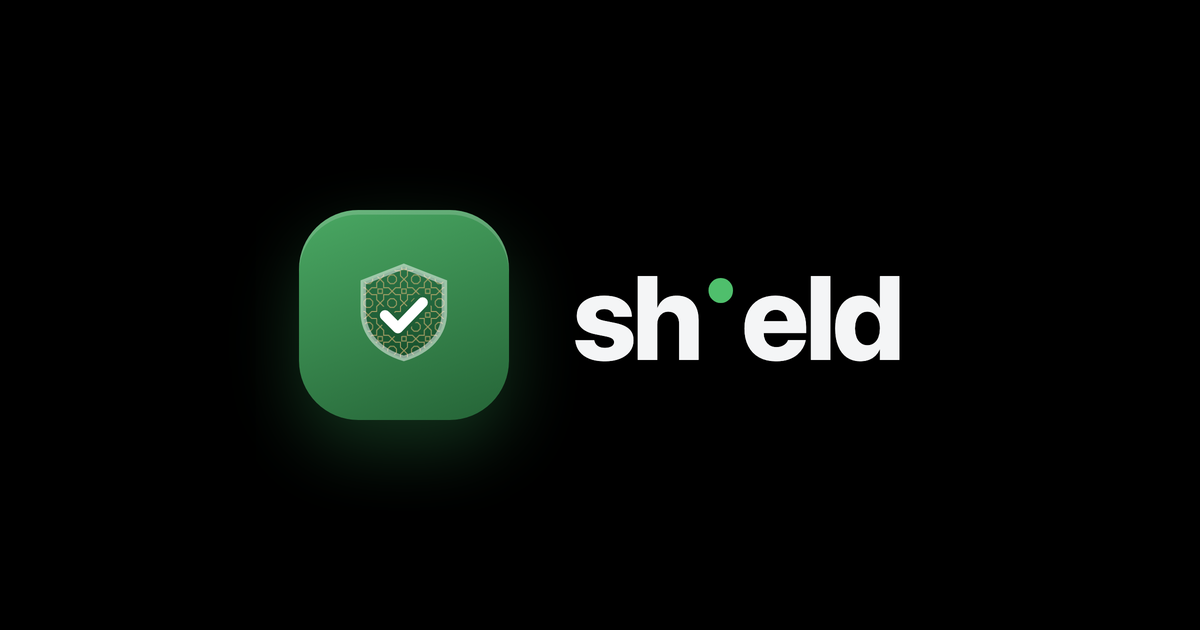
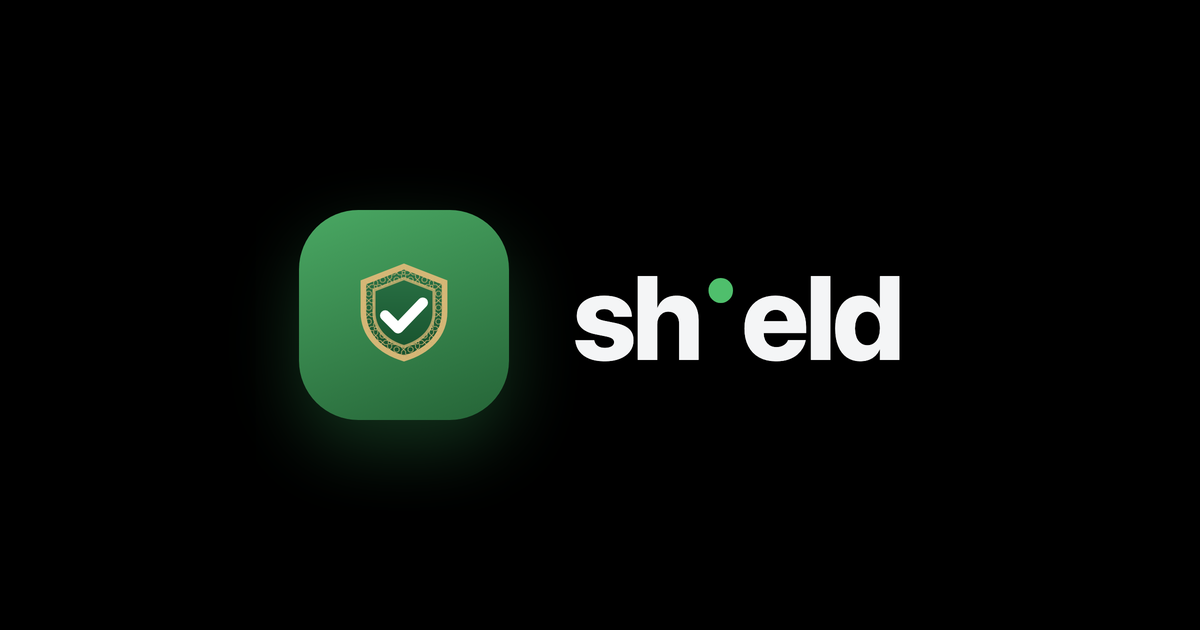
Switch brand mark to the inlay girih treatment
The girih now runs in a band that follows the shield's own outline, with the
centre left clear so the checkmark sits on plain green instead of competing
with a field of pattern behind it. Double gold rule -- heavier on the outer
edge, lighter on the inner -- reads as inlay rather than as texture that
wandered into the shape.

The shield rim moves from white to gold, which is what makes the gold read
as deliberate: previously it was trapped inside the silhouette and the rim
belonged to a different palette.

The mark now paints its own tile, so .logo .mark drops the CSS gradient and
keeps only the glow. The favicon takes the same gold rim but no band: below
~32px the pattern collapses into noise, so it carries the silhouette alone.

Changed region(s): [[0.2775, 0.4222, 0.4008, 0.573], [0.2775, 0.3317, 0.4008, 0.3619]]

diff --git a/index.html b/index.html
@@ -73,17 +73,17 @@
         width: 46px;
         height: 46px;
         border-radius: 13px;
-        background: linear-gradient(160deg, #4aa863, #256437);
+        /* the SVG paints the tile and its gradient itself now */
         display: flex;
         align-items: center;
         justify-content: center;
-        box-shadow: 0 6px 16px rgba(43, 112, 64, 0.45),
-          inset 0 1px 0 rgba(255, 255, 255, 0.18);
+        box-shadow: 0 6px 16px rgba(43, 112, 64, 0.45);
       }
 
       .logo .mark svg {
-        width: 26px;
-        height: 26px;
+        width: 100%;
+        height: 100%;
+        display: block;
       }
 
       .logo .wordmark {
@@ -426,45 +426,43 @@
       <header>
         <div class="logo">
           <span class="mark" aria-hidden="true">
-            <svg viewBox="0 0 24 24" fill="none" xmlns="http://www.w3.org/2000/svg">
-              <defs>
-                <linearGradient id="gs-m" x1="0" y1="0" x2="0" y2="1">
-                  <stop offset="0" stop-color="#2a7346"/>
-                  <stop offset="1" stop-color="#17502c"/>
-                </linearGradient>
-                <pattern id="gp-m" patternUnits="userSpaceOnUse"
-                    x="0.0000" y="0.0000" width="4.8101" height="4.8101">
-                  <g fill="none" stroke="#dcb978" stroke-width="0.1907" stroke-linejoin="miter">
-                    <polygon points="2.41,0.00 1.70,0.70 1.70,1.70 0.70,1.70 0.00,2.41 -0.70,1.70 -1.70,1.70 -1.70,0.70 -2.41,0.00 -1.70,-0.70 -1.70,-1.70 -0.70,-1.70 -0.00,-2.41 0.70,-1.70 1.70,-1.70 1.70,-0.70"/>
-                    <polygon points="0.88,0.37 0.37,0.88 -0.37,0.88 -0.88,0.37 -0.88,-0.37 -0.37,-0.88 0.37,-0.88 0.88,-0.37"/>
-                    <polygon points="7.22,0.00 6.51,0.70 6.51,1.70 5.51,1.70 4.81,2.41 4.11,1.70 3.11,1.70 3.11,0.70 2.41,0.00 3.11,-0.70 3.11,-1.70 4.11,-1.70 4.81,-2.41 5.51,-1.70 6.51,-1.70 6.51,-0.70"/>
-                    <polygon points="5.69,0.37 5.18,0.88 4.44,0.88 3.93,0.37 3.93,-0.37 4.44,-0.88 5.18,-0.88 5.69,-0.37"/>
-                    <polygon points="2.41,4.81 1.70,5.51 1.70,6.51 0.70,6.51 0.00,7.22 -0.70,6.51 -1.70,6.51 -1.70,5.51 -2.41,4.81 -1.70,4.11 -1.70,3.11 -0.70,3.11 -0.00,2.41 0.70,3.11 1.70,3.11 1.70,4.11"/>
-                    <polygon points="0.88,5.18 0.37,5.69 -0.37,5.69 -0.88,5.18 -0.88,4.44 -0.37,3.93 0.37,3.93 0.88,4.44"/>
-                    <polygon points="7.22,4.81 6.51,5.51 6.51,6.51 5.51,6.51 4.81,7.22 4.11,6.51 3.11,6.51 3.11,5.51 2.41,4.81 3.11,4.11 3.11,3.11 4.11,3.11 4.81,2.41 5.51,3.11 6.51,3.11 6.51,4.11"/>
-                    <polygon points="5.69,5.18 5.18,5.69 4.44,5.69 3.93,5.18 3.93,4.44 4.44,3.93 5.18,3.93 5.69,4.44"/>
-                    <polygon points="2.86,2.86 1.95,2.86 1.95,1.95 2.86,1.95"/>
-                    <line x1="2.86" y1="2.86" x2="2.80" y2="2.80"/>
-                    <line x1="1.95" y1="2.86" x2="2.01" y2="2.80"/>
-                    <line x1="1.95" y1="1.95" x2="2.01" y2="2.01"/>
-                    <line x1="2.86" y1="1.95" x2="2.80" y2="2.01"/>
+            <svg xmlns="http://www.w3.org/2000/svg" viewBox="0 0 512 512" role="img" aria-label="sh-eld logo"><defs><linearGradient id="bm-tg" x1="0.281" y1="-0.103" x2="0.719" y2="1.103">
+                <stop offset="0" stop-color="#4aa863"/><stop offset="1" stop-color="#256437"/>
+              </linearGradient>
+              <linearGradient id="bm-sg" x1="0" y1="0" x2="0" y2="1">
+                <stop offset="0" stop-color="#2a7346"/><stop offset="1" stop-color="#17502c"/>
+              </linearGradient><pattern id="bm-pat" patternUnits="userSpaceOnUse"
+                    x="0.0000" y="0.0000" width="34.0000" height="34.0000">
+                  <g fill="none" stroke="#dcb978" stroke-width="1.7000" stroke-linejoin="miter">
+                    <polygon points="17.00,0.00 12.02,4.98 12.02,12.02 4.98,12.02 0.00,17.00 -4.98,12.02 -12.02,12.02 -12.02,4.98 -17.00,0.00 -12.02,-4.98 -12.02,-12.02 -4.98,-12.02 -0.00,-17.00 4.98,-12.02 12.02,-12.02 12.02,-4.98"/>
+                    <polygon points="6.25,2.59 2.59,6.25 -2.59,6.25 -6.25,2.59 -6.25,-2.59 -2.59,-6.25 2.59,-6.25 6.25,-2.59"/>
+                    <polygon points="51.00,0.00 46.02,4.98 46.02,12.02 38.98,12.02 34.00,17.00 29.02,12.02 21.98,12.02 21.98,4.98 17.00,0.00 21.98,-4.98 21.98,-12.02 29.02,-12.02 34.00,-17.00 38.98,-12.02 46.02,-12.02 46.02,-4.98"/>
+                    <polygon points="40.25,2.59 36.59,6.25 31.41,6.25 27.75,2.59 27.75,-2.59 31.41,-6.25 36.59,-6.25 40.25,-2.59"/>
+                    <polygon points="17.00,34.00 12.02,38.98 12.02,46.02 4.98,46.02 0.00,51.00 -4.98,46.02 -12.02,46.02 -12.02,38.98 -17.00,34.00 -12.02,29.02 -12.02,21.98 -4.98,21.98 -0.00,17.00 4.98,21.98 12.02,21.98 12.02,29.02"/>
+                    <polygon points="6.25,36.59 2.59,40.25 -2.59,40.25 -6.25,36.59 -6.25,31.41 -2.59,27.75 2.59,27.75 6.25,31.41"/>
+                    <polygon points="51.00,34.00 46.02,38.98 46.02,46.02 38.98,46.02 34.00,51.00 29.02,46.02 21.98,46.02 21.98,38.98 17.00,34.00 21.98,29.02 21.98,21.98 29.02,21.98 34.00,17.00 38.98,21.98 46.02,21.98 46.02,29.02"/>
+                    <polygon points="40.25,36.59 36.59,40.25 31.41,40.25 27.75,36.59 27.75,31.41 31.41,27.75 36.59,27.75 40.25,31.41"/>
+                    <polygon points="20.25,20.25 13.75,20.25 13.75,13.75 20.25,13.75"/>
+                    <line x1="20.25" y1="20.25" x2="19.82" y2="19.82"/>
+                    <line x1="13.75" y1="20.25" x2="14.18" y2="19.82"/>
+                    <line x1="13.75" y1="13.75" x2="14.18" y2="14.18"/>
+                    <line x1="20.25" y1="13.75" x2="19.82" y2="14.18"/>
                   </g>
                 </pattern>
-                <clipPath id="gc-m"><path d="M12 2.2 3.8 5.4v6c0 4.6 3.2 7.9 8.2 9.4 5-1.5 8.2-4.8 8.2-9.4v-6L12 2.2Z"/></clipPath>
-                <mask id="gm-m">
-                  <rect x="0" y="0" width="24" height="24" fill="#fff"/>
-                  <path d="M8.2 12.1 10.8 14.7 15.8 9.5" fill="none" stroke="#000" stroke-width="3.5"
-                    stroke-linecap="round" stroke-linejoin="round"/>
-                </mask>
-              </defs>
-              <path d="M12 2.2 3.8 5.4v6c0 4.6 3.2 7.9 8.2 9.4 5-1.5 8.2-4.8 8.2-9.4v-6L12 2.2Z" fill="url(#gs-m)"/>
-              <g clip-path="url(#gc-m)" mask="url(#gm-m)" opacity="0.7">
-                <rect x="0" y="0" width="24" height="24" fill="url(#gp-m)"/>
-              </g>
-              <path d="M12 2.2 3.8 5.4v6c0 4.6 3.2 7.9 8.2 9.4 5-1.5 8.2-4.8 8.2-9.4v-6L12 2.2Z" stroke="#ffffff" stroke-opacity="0.5" stroke-width="1.1"/>
-              <path d="M8.2 12.1 10.8 14.7 15.8 9.5" stroke="#ffffff" stroke-width="2.1"
-                stroke-linecap="round" stroke-linejoin="round"/>
-            </svg>
+              <mask id="bm-band">
+                <g transform="translate(111.30 111.30) scale(12.0580)">
+                  <path d="M12 2.2 3.8 5.4v6c0 4.6 3.2 7.9 8.2 9.4 5-1.5 8.2-4.8 8.2-9.4v-6L12 2.2Z" fill="#fff"/>
+                  <path d="M12 2.2 3.8 5.4v6c0 4.6 3.2 7.9 8.2 9.4 5-1.5 8.2-4.8 8.2-9.4v-6L12 2.2Z" transform="translate(12 11.5) scale(0.74) translate(-12 -11.5)" fill="#000"/>
+                </g>
+              </mask></defs><rect width="512" height="512" rx="144.7" fill="url(#bm-tg)"/>
+              <g transform="translate(111.30 111.30) scale(12.0580)"><path d="M12 2.2 3.8 5.4v6c0 4.6 3.2 7.9 8.2 9.4 5-1.5 8.2-4.8 8.2-9.4v-6L12 2.2Z" fill="url(#bm-sg)"/></g>
+              <g mask="url(#bm-band)" opacity="0.9"><rect width="512" height="512" fill="url(#bm-pat)"/></g>
+              <g transform="translate(111.30 111.30) scale(12.0580)" fill="none">
+                <path d="M12 2.2 3.8 5.4v6c0 4.6 3.2 7.9 8.2 9.4 5-1.5 8.2-4.8 8.2-9.4v-6L12 2.2Z" stroke="#dcb978" stroke-opacity="0.95" stroke-width="1.15"/>
+                <path d="M12 2.2 3.8 5.4v6c0 4.6 3.2 7.9 8.2 9.4 5-1.5 8.2-4.8 8.2-9.4v-6L12 2.2Z" transform="translate(12 11.5) scale(0.74) translate(-12 -11.5)" stroke="#dcb978"
+                  stroke-opacity="0.75" stroke-width="0.85"/>
+                <path d="M8.2 12.1 10.8 14.7 15.8 9.5" stroke="#ffffff" stroke-width="2.1" fill="none" stroke-linecap="round" stroke-linejoin="round"/>
+              </g></svg>
           </span>
           <span class="wordmark">sh<span class="dot"></span>eld</span>
         </div>

diff --git a/build_brand_assets.py b/build_brand_assets.py
@@ -1,54 +1,56 @@
-"""Emit the shipping brand assets from the chosen girih variant (B).
+"""Emit the shipping brand assets from the chosen mark ("Inlay").
 
-Single source of geometry: build_logo_variants.py. Everything here is derived
-from it so the mark in the page, the favicon and the OG image cannot drift.
+Single source of geometry: build_logo_variants.py. The page mark, favicon and
+OG image are all generated here so they cannot drift apart.
+
+Inlay = the girih runs in a band following the shield's own outline, centre
+left clear so the checkmark sits on plain green. Double gold rule: heavier on
+the outer edge, lighter on the inner.
 """
 import build_logo_variants as G
 
-# --- chosen variant --------------------------------------------------------
-VAR = dict(s=58.0, sw=2.3, opacity=0.70, inner_octagon=True)
-
-# The mark is authored in the shield's own 24-unit box (matching the existing
-# inline <svg viewBox="0 0 24 24"> in index.html), so the pattern cell and
-# stroke must be converted out of 512-tile units.
-U = VAR["s"] / G.SC          # cell size in shield units
-SWU = VAR["sw"] / G.SC       # stroke weight in shield units
-CY = 11.5                    # shield path spans y 2.2..20.8 -> centre 11.5
+# --- chosen mark -----------------------------------------------------------
+CELL, STROKE, BAND_OP = 34.0, 1.7, 0.9
+INSET = 0.74          # inner edge of the band, as a scale of the shield
+XF = f"translate({G.OFF:.2f} {G.OFF:.2f}) scale({G.SC:.4f})"
 
 
-def mark24(uid, with_pattern=True):
-    """Shield + girih + check in a 0 0 24 24 box. No tile: the CSS draws that."""
-    pat = G.pattern(f"gp-{uid}", U, SWU, VAR["inner_octagon"], cx=12.0, cy=CY)
-    pattern_layer = f'''
-  <g clip-path="url(#gc-{uid})" mask="url(#gm-{uid})" opacity="{VAR["opacity"]}">
-    <rect x="0" y="0" width="24" height="24" fill="url(#gp-{uid})"/>
-  </g>''' if with_pattern else ""
-    defs_pattern = f'''
-    {pat}
-    <clipPath id="gc-{uid}"><path d="{G.SHIELD_D}"/></clipPath>
-    <mask id="gm-{uid}">
-      <rect x="0" y="0" width="24" height="24" fill="#fff"/>
-      <path d="{G.CHECK_D}" fill="none" stroke="#000" stroke-width="3.5"
-        stroke-linecap="round" stroke-linejoin="round"/>
-    </mask>''' if with_pattern else ""
-    return f'''<svg viewBox="0 0 24 24" fill="none" xmlns="http://www.w3.org/2000/svg">
-  <defs>
-    <linearGradient id="gs-{uid}" x1="0" y1="0" x2="0" y2="1">
-      <stop offset="0" stop-color="{G.SHIELD_HI}"/>
-      <stop offset="1" stop-color="{G.SHIELD_LO}"/>
-    </linearGradient>{defs_pattern}
-  </defs>
-  <path d="{G.SHIELD_D}" fill="url(#gs-{uid})"/>{pattern_layer}
-  <path d="{G.SHIELD_D}" stroke="#ffffff" stroke-opacity="0.5" stroke-width="1.1"/>
-  <path d="{G.CHECK_D}" stroke="#ffffff" stroke-width="2.1"
-    stroke-linecap="round" stroke-linejoin="round"/>
-</svg>'''
+def _inset(k=INSET):
+    """Shrink the shield about its own centre (x 3.8..20.2, y 2.2..20.8)."""
+    return f"translate(12 11.5) scale({k}) translate(-12 -11.5)"
+
+
+def mark(uid="", tile=True):
+    """Full 512 tile. uid namespaces the defs so the SVG can be inlined next
+    to other SVGs on a page without id collisions."""
+    p = f"{uid}-" if uid else ""
+    tile_bg = f'<rect width="512" height="512" rx="{G.RX:.1f}" fill="url(#{p}tg)"/>' if tile else ""
+    return f'''<svg xmlns="http://www.w3.org/2000/svg" viewBox="0 0 512 512" role="img" aria-label="sh-eld logo"><defs><linearGradient id="{p}tg" x1="0.281" y1="-0.103" x2="0.719" y2="1.103">
+    <stop offset="0" stop-color="{G.GREEN_HI}"/><stop offset="1" stop-color="{G.GREEN_LO}"/>
+  </linearGradient>
+  <linearGradient id="{p}sg" x1="0" y1="0" x2="0" y2="1">
+    <stop offset="0" stop-color="{G.SHIELD_HI}"/><stop offset="1" stop-color="{G.SHIELD_LO}"/>
+  </linearGradient>{G.pattern(f"{p}pat", CELL, STROKE, True, cx=256.0, cy=250.0)}
+  <mask id="{p}band">
+    <g transform="{XF}">
+      <path d="{G.SHIELD_D}" fill="#fff"/>
+      <path d="{G.SHIELD_D}" transform="{_inset()}" fill="#000"/>
+    </g>
+  </mask></defs>{tile_bg}
+  <g transform="{XF}"><path d="{G.SHIELD_D}" fill="url(#{p}sg)"/></g>
+  <g mask="url(#{p}band)" opacity="{BAND_OP}"><rect width="512" height="512" fill="url(#{p}pat)"/></g>
+  <g transform="{XF}" fill="none">
+    <path d="{G.SHIELD_D}" stroke="{G.GOLD}" stroke-opacity="0.95" stroke-width="1.15"/>
+    <path d="{G.SHIELD_D}" transform="{_inset()}" stroke="{G.GOLD}"
+      stroke-opacity="0.75" stroke-width="0.85"/>
+    <path d="{G.CHECK_D}" stroke="#ffffff" stroke-width="2.1" fill="none" stroke-linecap="round" stroke-linejoin="round"/>
+  </g></svg>'''
 
 
 def favicon():
-    """Plain shield on the green tile -- no girih. At 16-32px the gold lines
-    only add noise, so the favicon carries the silhouette alone."""
-    t, sh = 64.0, 64.0 * 26 / 46
+    """Plain shield, gold rim, no girih. Below ~32px the band collapses into
+    noise, so the favicon carries the silhouette and the gold edge only."""
+    sh = 64.0 * 26 / 46
     off, sc = (64.0 - sh) / 2, sh / 24
     return f'''<svg xmlns="http://www.w3.org/2000/svg" viewBox="0 0 64 64"
      role="img" aria-label="sh-eld shield logo">
@@ -65,7 +67,7 @@ def favicon():
   <rect width="64" height="64" rx="{64 * 13 / 46:.2f}" fill="url(#ft)"/>
   <g transform="translate({off:.2f} {off:.2f}) scale({sc:.4f})" fill="none">
     <path d="{G.SHIELD_D}" fill="url(#fs)"/>
-    <path d="{G.SHIELD_D}" stroke="#ffffff" stroke-opacity="0.5" stroke-width="1.1"/>
+    <path d="{G.SHIELD_D}" stroke="{G.GOLD}" stroke-opacity="0.95" stroke-width="1.3"/>
     <path d="{G.CHECK_D}" stroke="#ffffff" stroke-width="2.1"
       stroke-linecap="round" stroke-linejoin="round"/>
   </g>
@@ -73,7 +75,8 @@ def favicon():
 
 
 def lockup_page(mark_px, bg, pad_x=0, pad_y=0, canvas=None):
-    """The .logo lockup from index.html, reproduced for offscreen rendering."""
+    """The .logo lockup from index.html, reproduced for offscreen rendering.
+    The SVG paints the tile itself now, so the span only carries the glow."""
     gap, fs, rad = mark_px * 14 / 46, mark_px * 26 / 46, mark_px * 13 / 46
     frame = (f"width:{canvas[0]}px;height:{canvas[1]}px;"
              if canvas else f"padding:{pad_y}px {pad_x}px;width:max-content;")
@@ -82,17 +85,14 @@ def lockup_page(mark_px, bg, pad_x=0, pad_y=0, canvas=None):
   .stage{{{frame}display:flex;align-items:center;justify-content:center;}}
   .logo{{display:flex;align-items:center;gap:{gap:.2f}px;}}
   .mark{{width:{mark_px}px;height:{mark_px}px;border-radius:{rad:.2f}px;
-    background:linear-gradient(160deg,{G.GREEN_HI},{G.GREEN_LO});
-    display:flex;align-items:center;justify-content:center;
-    box-shadow:0 {mark_px*6/46:.1f}px {mark_px*16/46:.1f}px rgba(43,112,64,.45),
-      inset 0 {max(1,mark_px/46):.1f}px 0 rgba(255,255,255,.18);}}
-  .mark svg{{width:{mark_px*26/46:.2f}px;height:{mark_px*26/46:.2f}px;display:block;}}
+    box-shadow:0 {mark_px*6/46:.1f}px {mark_px*16/46:.1f}px rgba(43,112,64,.45);}}
+  .mark svg{{width:100%;height:100%;display:block;}}
   .wordmark{{font:800 {fs:.2f}px -apple-system,BlinkMacSystemFont,"Segoe UI",
     Roboto,Helvetica,Arial,sans-serif;letter-spacing:-.03em;color:#f4f5f6;}}
   .dot{{display:inline-block;width:.21em;height:.21em;border-radius:50%;
     background:#4fbf6c;vertical-align:.48em;margin:0 .07em;}}
 </style><div class="stage"><div class="logo">
-  <span class="mark">{mark24("og")}</span>
+  <span class="mark">{mark("og")}</span>
   <span class="wordmark">sh<span class="dot"></span>eld</span>
 </div></div>'''
 
@@ -100,12 +100,14 @@ def lockup_page(mark_px, bg, pad_x=0, pad_y=0, canvas=None):
 if __name__ == "__main__":
     import sys
     out = sys.argv[1] if len(sys.argv) > 1 else "."
+    with open("logo-mark.svg", "w", encoding="utf-8") as fh:
+        fh.write(mark() + "\n")
     with open("favicon.svg", "w", encoding="utf-8") as fh:
         fh.write(favicon() + "\n")
-    with open(f"{out}/mark24.svg", "w", encoding="utf-8") as fh:
-        fh.write(mark24("m"))
+    with open(f"{out}/mark-inline.svg", "w", encoding="utf-8") as fh:
+        fh.write(mark("bm"))
     with open(f"{out}/og.html", "w", encoding="utf-8") as fh:
         fh.write(lockup_page(210, "#000000", canvas=(1200, 630)))
     with open(f"{out}/lockup.html", "w", encoding="utf-8") as fh:
-        fh.write(lockup_page(512, "transparent", pad_x=110, pad_y=110))
-    print("wrote favicon.svg, mark24.svg, og.html, lockup.html")
+        fh.write(lockup_page(512, "transparent", pad_x=300, pad_y=260))
+    print("wrote logo-mark.svg, favicon.svg, mark-inline.svg, og.html, lockup.html")
